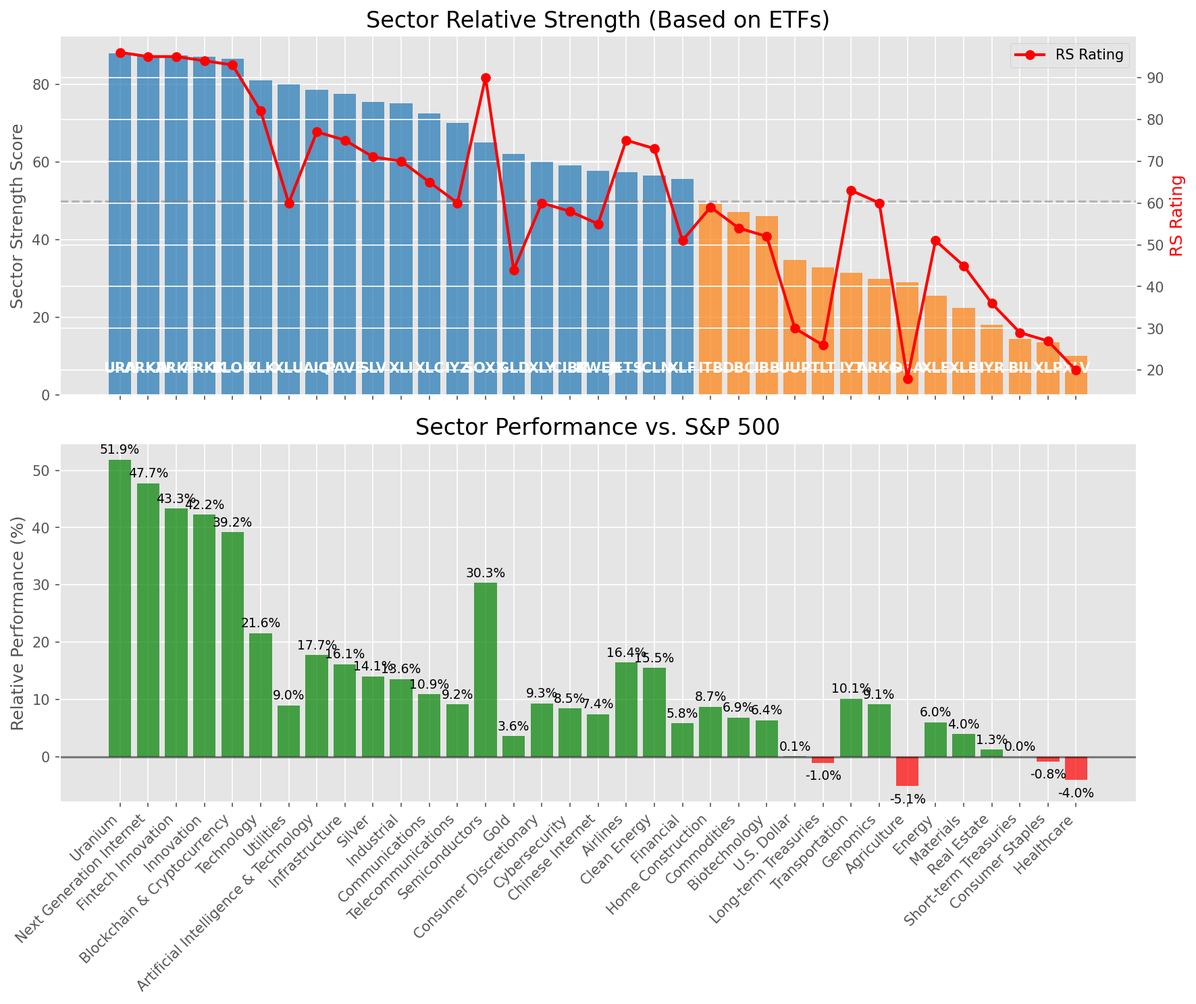
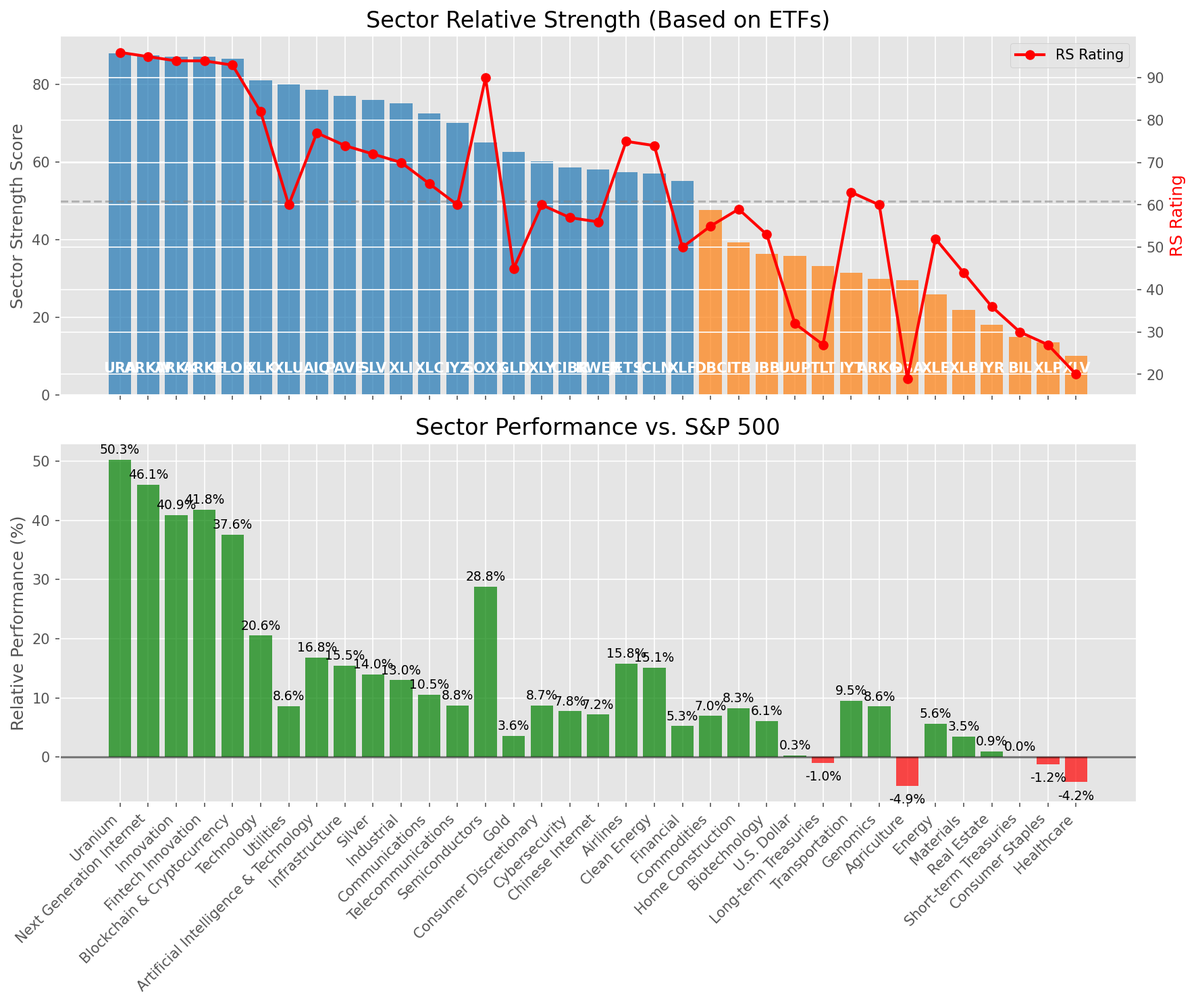
Add market report for 2025-08-01

diff --git a/oneil_relative_strength_report_2025-08-01.md b/oneil_relative_strength_report_2025-08-01.md
@@ -9,11 +9,11 @@
 | Metric | Value |
 |--------|-------|
 | **Market Valuation** | **Overvalued** |
-| **Current Ratio** | 10.13 |
+| **Current Ratio** | 10.07 |
 | **Historical Mean** | 9.55 |
 | **Standard Deviation** | 0.59 |
 | **Z-Score (StdDev from Mean)** | 1.20 |
-| **Total Market Cap** | $307.23 trillion |
+| **Total Market Cap** | $305.37 trillion |
 | **GDP** | $30.33 trillion |
 
 ## **Market Insights**
@@ -49,41 +49,41 @@ Based on William O'Neil's Relative Strength Methodology
 
 | ETF | Strength | RS Rating | Performance | Above Key MAs | Trend | Sector |
 |-----|----------|-----------|-------------|--------------|-------|--------|
-| [URA](https://www.tradingview.com/chart/?symbol=URA) | 88.1 | 96.0 | 51.86% | 10d ✗, 50d ✓, 200d ✓ | ↗ | Uranium |
-| [ARKW](https://www.tradingview.com/chart/?symbol=ARKW) | 87.6 | 95.0 | 47.73% | 10d ✗, 50d ✓, 200d ✓ | ↗ | Next Generation Internet |
-| [ARKF](https://www.tradingview.com/chart/?symbol=ARKF) | 87.6 | 95.0 | 43.35% | 10d ✗, 50d ✓, 200d ✓ | ↗ | Fintech Innovation |
-| [ARKK](https://www.tradingview.com/chart/?symbol=ARKK) | 87.1 | 94.0 | 42.25% | 10d ✗, 50d ✓, 200d ✓ | ↗ | Innovation |
-| [BLOK](https://www.tradingview.com/chart/?symbol=BLOK) | 86.6 | 93.0 | 39.23% | 10d ✗, 50d ✓, 200d ✓ | ↗ | Blockchain & Cryptocurrency |
-| [XLK](https://www.tradingview.com/chart/?symbol=XLK) | 81.1 | 82.0 | 21.57% | 10d ✗, 50d ✓, 200d ✓ | ↗ | Technology |
-| [XLU](https://www.tradingview.com/chart/?symbol=XLU) | 80.0 | 60.0 | 8.99% | 10d ✓, 50d ✓, 200d ✓ | ↗ | Utilities |
-| [AIQ](https://www.tradingview.com/chart/?symbol=AIQ) | 78.6 | 77.0 | 17.73% | 10d ✗, 50d ✓, 200d ✓ | ↗ | Artificial Intelligence & Technology |
-| [PAVE](https://www.tradingview.com/chart/?symbol=PAVE) | 77.6 | 75.0 | 16.15% | 10d ✗, 50d ✓, 200d ✓ | ↗ | Infrastructure |
-| [SLV](https://www.tradingview.com/chart/?symbol=SLV) | 75.6 | 71.0 | 14.05% | 10d ✗, 50d ✓, 200d ✓ | ↗ | Silver |
-| [XLI](https://www.tradingview.com/chart/?symbol=XLI) | 75.1 | 70.0 | 13.56% | 10d ✗, 50d ✓, 200d ✓ | ↗ | Industrial |
-| [XLC](https://www.tradingview.com/chart/?symbol=XLC) | 72.6 | 65.0 | 10.89% | 10d ✗, 50d ✓, 200d ✓ | ↗ | Communications |
-| [IYZ](https://www.tradingview.com/chart/?symbol=IYZ) | 70.1 | 60.0 | 9.18% | 10d ✗, 50d ✓, 200d ✓ | ↗ | Telecommunications |
-| [SOXX](https://www.tradingview.com/chart/?symbol=SOXX) | 65.1 | 90.0 | 30.33% | 10d ✗, 50d ✓, 200d ✓ | ↘ | Semiconductors |
-| [GLD](https://www.tradingview.com/chart/?symbol=GLD) | 62.1 | 44.0 | 3.59% | 10d ✗, 50d ✓, 200d ✓ | ↗ | Gold |
-| [XLY](https://www.tradingview.com/chart/?symbol=XLY) | 60.2 | 60.0 | 9.31% | 10d ✗, 50d ✗, 200d ✓ | ↗ | Consumer Discretionary |
-| [CIBR](https://www.tradingview.com/chart/?symbol=CIBR) | 59.2 | 58.0 | 8.45% | 10d ✗, 50d ✗, 200d ✓ | ↗ | Cybersecurity |
-| [KWEB](https://www.tradingview.com/chart/?symbol=KWEB) | 57.7 | 55.0 | 7.44% | 10d ✗, 50d ✗, 200d ✓ | ↗ | Chinese Internet |
-| [JETS](https://www.tradingview.com/chart/?symbol=JETS) | 57.5 | 75.0 | 16.45% | 10d ✗, 50d ✗, 200d ✗ | ↗ | Airlines |
-| [ICLN](https://www.tradingview.com/chart/?symbol=ICLN) | 56.6 | 73.0 | 15.55% | 10d ✗, 50d ✓, 200d ✓ | ↘ | Clean Energy |
-| [XLF](https://www.tradingview.com/chart/?symbol=XLF) | 55.7 | 51.0 | 5.83% | 10d ✗, 50d ✗, 200d ✓ | ↗ | Financial |
-| [ITB](https://www.tradingview.com/chart/?symbol=ITB) | 49.3 | 59.0 | 8.75% | 10d ✓, 50d ✓, 200d ✗ | ↘ | Home Construction |
-| [DBC](https://www.tradingview.com/chart/?symbol=DBC) | 47.1 | 54.0 | 6.87% | 10d ✗, 50d ✓, 200d ✓ | ↘ | Commodities |
-| [IBB](https://www.tradingview.com/chart/?symbol=IBB) | 46.1 | 52.0 | 6.38% | 10d ✗, 50d ✓, 200d ✓ | ↘ | Biotechnology |
-| [UUP](https://www.tradingview.com/chart/?symbol=UUP) | 34.8 | 30.0 | 0.07% | 10d ✓, 50d ✓, 200d ✗ | ↘ | U.S. Dollar |
-| [TLT](https://www.tradingview.com/chart/?symbol=TLT) | 32.8 | 26.0 | -1.03% | 10d ✓, 50d ✓, 200d ✗ | ↘ | Long-term Treasuries |
-| [IYT](https://www.tradingview.com/chart/?symbol=IYT) | 31.5 | 63.0 | 10.14% | 10d ✗, 50d ✗, 200d ✗ | ↘ | Transportation |
-| [ARKG](https://www.tradingview.com/chart/?symbol=ARKG) | 30.0 | 60.0 | 9.15% | 10d ✗, 50d ✗, 200d ✗ | ↘ | Genomics |
-| [DBA](https://www.tradingview.com/chart/?symbol=DBA) | 29.0 | 18.0 | -5.09% | 10d ✗, 50d ✗, 200d ✗ | ↗ | Agriculture |
-| [XLE](https://www.tradingview.com/chart/?symbol=XLE) | 25.5 | 51.0 | 6.04% | 10d ✗, 50d ✗, 200d ✗ | ↘ | Energy |
-| [XLB](https://www.tradingview.com/chart/?symbol=XLB) | 22.5 | 45.0 | 3.95% | 10d ✗, 50d ✗, 200d ✗ | ↘ | Materials |
-| [IYR](https://www.tradingview.com/chart/?symbol=IYR) | 18.0 | 36.0 | 1.28% | 10d ✗, 50d ✗, 200d ✗ | ↘ | Real Estate |
-| [BIL](https://www.tradingview.com/chart/?symbol=BIL) | 14.5 | 29.0 | 0.03% | 10d ✗, 50d ✗, 200d ✗ | ↘ | Short-term Treasuries |
-| [XLP](https://www.tradingview.com/chart/?symbol=XLP) | 13.5 | 27.0 | -0.83% | 10d ✗, 50d ✗, 200d ✗ | ↘ | Consumer Staples |
-| [XLV](https://www.tradingview.com/chart/?symbol=XLV) | 10.0 | 20.0 | -4.04% | 10d ✗, 50d ✗, 200d ✗ | ↘ | Healthcare |
+| [URA](https://www.tradingview.com/chart/?symbol=URA) | 88.1 | 96.0 | 50.26% | 10d ✗, 50d ✓, 200d ✓ | ↗ | Uranium |
+| [ARKW](https://www.tradingview.com/chart/?symbol=ARKW) | 87.6 | 95.0 | 46.07% | 10d ✗, 50d ✓, 200d ✓ | ↗ | Next Generation Internet |
+| [ARKK](https://www.tradingview.com/chart/?symbol=ARKK) | 87.1 | 94.0 | 40.92% | 10d ✗, 50d ✓, 200d ✓ | ↗ | Innovation |
+| [ARKF](https://www.tradingview.com/chart/?symbol=ARKF) | 87.1 | 94.0 | 41.83% | 10d ✗, 50d ✓, 200d ✓ | ↗ | Fintech Innovation |
+| [BLOK](https://www.tradingview.com/chart/?symbol=BLOK) | 86.6 | 93.0 | 37.59% | 10d ✗, 50d ✓, 200d ✓ | ↗ | Blockchain & Cryptocurrency |
+| [XLK](https://www.tradingview.com/chart/?symbol=XLK) | 81.1 | 82.0 | 20.55% | 10d ✗, 50d ✓, 200d ✓ | ↗ | Technology |
+| [XLU](https://www.tradingview.com/chart/?symbol=XLU) | 80.0 | 60.0 | 8.63% | 10d ✓, 50d ✓, 200d ✓ | ↗ | Utilities |
+| [AIQ](https://www.tradingview.com/chart/?symbol=AIQ) | 78.6 | 77.0 | 16.84% | 10d ✗, 50d ✓, 200d ✓ | ↗ | Artificial Intelligence & Technology |
+| [PAVE](https://www.tradingview.com/chart/?symbol=PAVE) | 77.1 | 74.0 | 15.50% | 10d ✗, 50d ✓, 200d ✓ | ↗ | Infrastructure |
+| [SLV](https://www.tradingview.com/chart/?symbol=SLV) | 76.1 | 72.0 | 13.96% | 10d ✗, 50d ✓, 200d ✓ | ↗ | Silver |
+| [XLI](https://www.tradingview.com/chart/?symbol=XLI) | 75.1 | 70.0 | 13.01% | 10d ✗, 50d ✓, 200d ✓ | ↗ | Industrial |
+| [XLC](https://www.tradingview.com/chart/?symbol=XLC) | 72.6 | 65.0 | 10.53% | 10d ✗, 50d ✓, 200d ✓ | ↗ | Communications |
+| [IYZ](https://www.tradingview.com/chart/?symbol=IYZ) | 70.1 | 60.0 | 8.76% | 10d ✗, 50d ✓, 200d ✓ | ↗ | Telecommunications |
+| [SOXX](https://www.tradingview.com/chart/?symbol=SOXX) | 65.1 | 90.0 | 28.81% | 10d ✗, 50d ✓, 200d ✓ | ↘ | Semiconductors |
+| [GLD](https://www.tradingview.com/chart/?symbol=GLD) | 62.6 | 45.0 | 3.62% | 10d ✗, 50d ✓, 200d ✓ | ↗ | Gold |
+| [XLY](https://www.tradingview.com/chart/?symbol=XLY) | 60.2 | 60.0 | 8.70% | 10d ✗, 50d ✗, 200d ✓ | ↗ | Consumer Discretionary |
+| [CIBR](https://www.tradingview.com/chart/?symbol=CIBR) | 58.7 | 57.0 | 7.76% | 10d ✗, 50d ✗, 200d ✓ | ↗ | Cybersecurity |
+| [KWEB](https://www.tradingview.com/chart/?symbol=KWEB) | 58.2 | 56.0 | 7.19% | 10d ✗, 50d ✗, 200d ✓ | ↗ | Chinese Internet |
+| [JETS](https://www.tradingview.com/chart/?symbol=JETS) | 57.5 | 75.0 | 15.82% | 10d ✗, 50d ✗, 200d ✗ | ↗ | Airlines |
+| [ICLN](https://www.tradingview.com/chart/?symbol=ICLN) | 57.1 | 74.0 | 15.12% | 10d ✗, 50d ✓, 200d ✓ | ↘ | Clean Energy |
+| [XLF](https://www.tradingview.com/chart/?symbol=XLF) | 55.2 | 50.0 | 5.26% | 10d ✗, 50d ✗, 200d ✓ | ↗ | Financial |
+| [DBC](https://www.tradingview.com/chart/?symbol=DBC) | 47.6 | 55.0 | 6.97% | 10d ✗, 50d ✓, 200d ✓ | ↘ | Commodities |
+| [ITB](https://www.tradingview.com/chart/?symbol=ITB) | 39.4 | 59.0 | 8.26% | 10d ✗, 50d ✓, 200d ✗ | ↘ | Home Construction |
+| [IBB](https://www.tradingview.com/chart/?symbol=IBB) | 36.4 | 53.0 | 6.12% | 10d ✗, 50d ✓, 200d ✗ | ↘ | Biotechnology |
+| [UUP](https://www.tradingview.com/chart/?symbol=UUP) | 35.8 | 32.0 | 0.27% | 10d ✓, 50d ✓, 200d ✗ | ↘ | U.S. Dollar |
+| [TLT](https://www.tradingview.com/chart/?symbol=TLT) | 33.3 | 27.0 | -0.95% | 10d ✓, 50d ✓, 200d ✗ | ↘ | Long-term Treasuries |
+| [IYT](https://www.tradingview.com/chart/?symbol=IYT) | 31.5 | 63.0 | 9.51% | 10d ✗, 50d ✗, 200d ✗ | ↘ | Transportation |
+| [ARKG](https://www.tradingview.com/chart/?symbol=ARKG) | 30.0 | 60.0 | 8.55% | 10d ✗, 50d ✗, 200d ✗ | ↘ | Genomics |
+| [DBA](https://www.tradingview.com/chart/?symbol=DBA) | 29.5 | 19.0 | -4.86% | 10d ✗, 50d ✗, 200d ✗ | ↗ | Agriculture |
+| [XLE](https://www.tradingview.com/chart/?symbol=XLE) | 26.0 | 52.0 | 5.64% | 10d ✗, 50d ✗, 200d ✗ | ↘ | Energy |
+| [XLB](https://www.tradingview.com/chart/?symbol=XLB) | 22.0 | 44.0 | 3.52% | 10d ✗, 50d ✗, 200d ✗ | ↘ | Materials |
+| [IYR](https://www.tradingview.com/chart/?symbol=IYR) | 18.0 | 36.0 | 0.95% | 10d ✗, 50d ✗, 200d ✗ | ↘ | Real Estate |
+| [BIL](https://www.tradingview.com/chart/?symbol=BIL) | 15.0 | 30.0 | 0.03% | 10d ✗, 50d ✗, 200d ✗ | ↘ | Short-term Treasuries |
+| [XLP](https://www.tradingview.com/chart/?symbol=XLP) | 13.5 | 27.0 | -1.18% | 10d ✗, 50d ✗, 200d ✗ | ↘ | Consumer Staples |
+| [XLV](https://www.tradingview.com/chart/?symbol=XLV) | 10.0 | 20.0 | -4.22% | 10d ✗, 50d ✗, 200d ✗ | ↘ | Healthcare |
 
 ### **Sector ETF Performance Interpretation**
 
@@ -98,9 +98,9 @@ This table shows the relative strength metrics for different market sectors base
 
 ### **Current Sector Leadership**
 
-The current market leadership is coming from the following sectors: **Uranium, Next Generation Internet, Fintech Innovation**.
+The current market leadership is coming from the following sectors: **Uranium, Next Generation Internet, Innovation**.
 
-The **Uranium** sector (represented by **URA**) is showing particularly strong relative strength with an RS rating of 96.0 and performance of 51.86% vs. the S&P 500. This sector is trading above its 50-day, 200-day moving average(s). Investors should consider focusing on high RS stocks within these leading sectors for potential outperformance.
+The **Uranium** sector (represented by **URA**) is showing particularly strong relative strength with an RS rating of 96.0 and performance of 50.26% vs. the S&P 500. This sector is trading above its 50-day, 200-day moving average(s). Investors should consider focusing on high RS stocks within these leading sectors for potential outperformance.
 
 ---
 
@@ -110,149 +110,147 @@ The following 44 stocks show exceptional relative strength:
 
 | RS Rating | Buy Score | Current Price | Chart | Name | Ticker |
 |-----------|-----------|---------------|-------|------|--------|
-| 100 | 100 | $197.90 | [Chart](https://www.tradingview.com/chart/?symbol=CLS) | Celestica, Inc. | CLS |
-| 100 | 100 | $233.67 | [Chart](https://www.tradingview.com/chart/?symbol=DAVE) | Dave Inc. Class A Common Stock | DAVE |
-| 100 | 100 | $149.14 | [Chart](https://www.tradingview.com/chart/?symbol=SEZL) | Sezzle Inc. Common Stock | SEZL |
-| 100 | 100 | $63.95 | [Chart](https://www.tradingview.com/chart/?symbol=MP) | MP Materials Corp. | MP |
-| 100 | 100 | $29.79 | [Chart](https://www.tradingview.com/chart/?symbol=CPS) | Cooper-Standard Automotive Inc. | CPS |
-| 99 | 100 | $63.03 | [Chart](https://www.tradingview.com/chart/?symbol=HIMS) | Hims & Hers Health, Inc. | HIMS |
-| 99 | 100 | $661.38 | [Chart](https://www.tradingview.com/chart/?symbol=GEV) | GE Vernova Inc. | GEV |
-| 99 | 100 | $127.32 | [Chart](https://www.tradingview.com/chart/?symbol=RBLX) | Roblox Corporation | RBLX |
-| 98 | 100 | $382.89 | [Chart](https://www.tradingview.com/chart/?symbol=TLN) | Talen Energy Corporation Common Stock | TLN |
-| 98 | 100 | $208.81 | [Chart](https://www.tradingview.com/chart/?symbol=NET) | Cloudflare, Inc. Class A common stock, par value $0.001 per share | NET |
-| 96 | 100 | $65.65 | [Chart](https://www.tradingview.com/chart/?symbol=IBKR) | Interactive Brokers Group, Inc. Class A Common Stock | IBKR |
-| 96 | 100 | $179.27 | [Chart](https://www.tradingview.com/chart/?symbol=COOP) | Mr. Cooper Group Inc. Common Stock | COOP |
-| 96 | 100 | $375.47 | [Chart](https://www.tradingview.com/chart/?symbol=CVNA) | Carvana Co. | CVNA |
-| 95 | 100 | $48.28 | [Chart](https://www.tradingview.com/chart/?symbol=REVG) | REV Group, Inc. | REVG |
-| 95 | 100 | $112.97 | [Chart](https://www.tradingview.com/chart/?symbol=SANM) | Sanmina  Corp | SANM |
-| 95 | 100 | $232.07 | [Chart](https://www.tradingview.com/chart/?symbol=AGX) | Argan, Inc | AGX |
+| 100 | 100 | $194.83 | [Chart](https://www.tradingview.com/chart/?symbol=CLS) | Celestica, Inc. | CLS |
+| 100 | 100 | $63.41 | [Chart](https://www.tradingview.com/chart/?symbol=MP) | MP Materials Corp. | MP |
+| 100 | 100 | $230.51 | [Chart](https://www.tradingview.com/chart/?symbol=DAVE) | Dave Inc. Class A Common Stock | DAVE |
+| 100 | 100 | $145.52 | [Chart](https://www.tradingview.com/chart/?symbol=SEZL) | Sezzle Inc. Common Stock | SEZL |
+| 99 | 100 | $27.49 | [Chart](https://www.tradingview.com/chart/?symbol=CPS) | Cooper-Standard Automotive Inc. | CPS |
+| 99 | 100 | $654.05 | [Chart](https://www.tradingview.com/chart/?symbol=GEV) | GE Vernova Inc. | GEV |
+| 99 | 100 | $62.29 | [Chart](https://www.tradingview.com/chart/?symbol=HIMS) | Hims & Hers Health, Inc. | HIMS |
+| 99 | 100 | $380.50 | [Chart](https://www.tradingview.com/chart/?symbol=TLN) | Talen Energy Corporation Common Stock | TLN |
+| 99 | 100 | $126.26 | [Chart](https://www.tradingview.com/chart/?symbol=RBLX) | Roblox Corporation | RBLX |
+| 98 | 100 | $204.60 | [Chart](https://www.tradingview.com/chart/?symbol=NET) | Cloudflare, Inc. Class A common stock, par value $0.001 per share | NET |
+| 97 | 100 | $166.17 | [Chart](https://www.tradingview.com/chart/?symbol=IRTC) | iRhythm Technologies, Inc | IRTC |
+| 96 | 100 | $64.61 | [Chart](https://www.tradingview.com/chart/?symbol=IBKR) | Interactive Brokers Group, Inc. Class A Common Stock | IBKR |
+| 96 | 100 | $175.80 | [Chart](https://www.tradingview.com/chart/?symbol=COOP) | Mr. Cooper Group Inc. Common Stock | COOP |
+| 96 | 100 | $369.57 | [Chart](https://www.tradingview.com/chart/?symbol=CVNA) | Carvana Co. | CVNA |
+| 95 | 100 | $166.87 | [Chart](https://www.tradingview.com/chart/?symbol=NRG) | NRG Energy, Inc. | NRG |
+| 95 | 100 | $137.00 | [Chart](https://www.tradingview.com/chart/?symbol=LMB) | Limbach Holdings, Inc Common Stock | LMB |
 | 95 | 100 | $105.14 | [Chart](https://www.tradingview.com/chart/?symbol=VRNA) | Verona Pharma plc | VRNA |
-| 95 | 100 | $168.00 | [Chart](https://www.tradingview.com/chart/?symbol=NRG) | NRG Energy, Inc. | NRG |
-| 94 | 100 | $137.00 | [Chart](https://www.tradingview.com/chart/?symbol=LMB) | Limbach Holdings, Inc Common Stock | LMB |
-| 93 | 100 | $88.13 | [Chart](https://www.tradingview.com/chart/?symbol=RYTM) | Rhythm Pharmaceuticals, Inc. Common Stock | RYTM |
-| 93 | 100 | $490.72 | [Chart](https://www.tradingview.com/chart/?symbol=CW) | Curtiss-Wright Corp. | CW |
-| 93 | 100 | $382.85 | [Chart](https://www.tradingview.com/chart/?symbol=APP) | Applovin Corporation Class A Common Stock | APP |
-| 93 | 100 | $43.12 | [Chart](https://www.tradingview.com/chart/?symbol=LTM) | LATAM Airlines Group S.A. American Depositary Shares (each representing two thousand (2,000) shares of Common Stock) | LTM |
-| 92 | 100 | $258.76 | [Chart](https://www.tradingview.com/chart/?symbol=WWD) | Woodward, Inc. | WWD |
-| 92 | 100 | $18.81 | [Chart](https://www.tradingview.com/chart/?symbol=LQDA) | Liquidia Corporation Common Stock | LQDA |
-| 92 | 100 | $157.45 | [Chart](https://www.tradingview.com/chart/?symbol=PLTR) | Palantir Technologies Inc. Class A Common Stock | PLTR |
-| 91 | 100 | $35.43 | [Chart](https://www.tradingview.com/chart/?symbol=APG) | APi Group Corporation | APG |
-| 91 | 100 | $105.07 | [Chart](https://www.tradingview.com/chart/?symbol=APH) | Amphenol Corporation | APH |
-| 91 | 100 | $270.00 | [Chart](https://www.tradingview.com/chart/?symbol=GE) | GE Aerospace | GE |
-| 91 | 100 | $82.45 | [Chart](https://www.tradingview.com/chart/?symbol=TPB) | Turning Point Brands, Inc. | TPB |
-| 91 | 100 | $90.73 | [Chart](https://www.tradingview.com/chart/?symbol=EBAY) | eBay Inc | EBAY |
-| 88 | 100 | $146.89 | [Chart](https://www.tradingview.com/chart/?symbol=VSEC) | VSE Corp | VSEC |
-| 87 | 100 | $29.62 | [Chart](https://www.tradingview.com/chart/?symbol=SRAD) | Sportradar Group AG Class A Ordinary Shares | SRAD |
-| 87 | 99 | $54.82 | [Chart](https://www.tradingview.com/chart/?symbol=BTI) | British American Tobacco p.l.c. American Depositary Shares, American Depositary Shares, each representing one Ordinary Share | BTI |
-| 86 | 99 | $57.48 | [Chart](https://www.tradingview.com/chart/?symbol=ERJ) | Embraer S.A. | ERJ |
-| 88 | 98 | $187.50 | [Chart](https://www.tradingview.com/chart/?symbol=AWI) | Armstrong World Industries, Inc. | AWI |
-| 85 | 97 | $47.88 | [Chart](https://www.tradingview.com/chart/?symbol=BBIO) | BridgeBio Pharma, Inc. Common Stock | BBIO |
-| 84 | 97 | $32.59 | [Chart](https://www.tradingview.com/chart/?symbol=DB) | Deutsche Bank Aktiengesellschaft | DB |
-| 86 | 96 | $95.29 | [Chart](https://www.tradingview.com/chart/?symbol=NDAQ) | Nasdaq, Inc. Common Stock | NDAQ |
-| 85 | 96 | $72.45 | [Chart](https://www.tradingview.com/chart/?symbol=ULS) | UL Solutions Inc. | ULS |
-| 83 | 96 | $39.13 | [Chart](https://www.tradingview.com/chart/?symbol=AHR) | American Healthcare REIT, Inc. | AHR |
-| 85 | 95 | $257.76 | [Chart](https://www.tradingview.com/chart/?symbol=WTS) | Watts Water Technologies, Inc. Class A | WTS |
-| 82 | 92 | $112.48 | [Chart](https://www.tradingview.com/chart/?symbol=SXT) | Sensient Technology Corporation | SXT |
-| 82 | 92 | $49.41 | [Chart](https://www.tradingview.com/chart/?symbol=FHI) | Federated Hermes, Inc. | FHI |
+| 95 | 100 | $227.92 | [Chart](https://www.tradingview.com/chart/?symbol=AGX) | Argan, Inc | AGX |
+| 94 | 100 | $111.85 | [Chart](https://www.tradingview.com/chart/?symbol=SANM) | Sanmina  Corp | SANM |
+| 94 | 100 | $491.10 | [Chart](https://www.tradingview.com/chart/?symbol=CW) | Curtiss-Wright Corp. | CW |
+| 93 | 100 | $379.52 | [Chart](https://www.tradingview.com/chart/?symbol=APP) | Applovin Corporation Class A Common Stock | APP |
+| 93 | 100 | $87.43 | [Chart](https://www.tradingview.com/chart/?symbol=RYTM) | Rhythm Pharmaceuticals, Inc. Common Stock | RYTM |
+| 93 | 100 | $42.99 | [Chart](https://www.tradingview.com/chart/?symbol=LTM) | LATAM Airlines Group S.A. American Depositary Shares (each representing two thousand (2,000) shares of Common Stock) | LTM |
+| 92 | 100 | $18.80 | [Chart](https://www.tradingview.com/chart/?symbol=LQDA) | Liquidia Corporation Common Stock | LQDA |
+| 92 | 100 | $156.19 | [Chart](https://www.tradingview.com/chart/?symbol=PLTR) | Palantir Technologies Inc. Class A Common Stock | PLTR |
+| 92 | 100 | $91.47 | [Chart](https://www.tradingview.com/chart/?symbol=EBAY) | eBay Inc | EBAY |
+| 91 | 100 | $268.64 | [Chart](https://www.tradingview.com/chart/?symbol=GE) | GE Aerospace | GE |
+| 91 | 100 | $81.52 | [Chart](https://www.tradingview.com/chart/?symbol=TPB) | Turning Point Brands, Inc. | TPB |
+| 91 | 100 | $104.58 | [Chart](https://www.tradingview.com/chart/?symbol=APH) | Amphenol Corporation | APH |
+| 90 | 100 | $35.07 | [Chart](https://www.tradingview.com/chart/?symbol=APG) | APi Group Corporation | APG |
+| 87 | 100 | $29.51 | [Chart](https://www.tradingview.com/chart/?symbol=SRAD) | Sportradar Group AG Class A Ordinary Shares | SRAD |
+| 89 | 99 | $187.50 | [Chart](https://www.tradingview.com/chart/?symbol=AWI) | Armstrong World Industries, Inc. | AWI |
+| 87 | 99 | $54.57 | [Chart](https://www.tradingview.com/chart/?symbol=BTI) | British American Tobacco p.l.c. American Depositary Shares, American Depositary Shares, each representing one Ordinary Share | BTI |
+| 87 | 99 | $144.28 | [Chart](https://www.tradingview.com/chart/?symbol=VSEC) | VSE Corp | VSEC |
+| 86 | 99 | $56.97 | [Chart](https://www.tradingview.com/chart/?symbol=ERJ) | Embraer S.A. | ERJ |
+| 85 | 97 | $47.56 | [Chart](https://www.tradingview.com/chart/?symbol=BBIO) | BridgeBio Pharma, Inc. Common Stock | BBIO |
+| 84 | 97 | $32.35 | [Chart](https://www.tradingview.com/chart/?symbol=DB) | Deutsche Bank Aktiengesellschaft | DB |
+| 84 | 97 | $39.02 | [Chart](https://www.tradingview.com/chart/?symbol=AHR) | American Healthcare REIT, Inc. | AHR |
+| 86 | 96 | $94.75 | [Chart](https://www.tradingview.com/chart/?symbol=NDAQ) | Nasdaq, Inc. Common Stock | NDAQ |
+| 85 | 96 | $72.19 | [Chart](https://www.tradingview.com/chart/?symbol=ULS) | UL Solutions Inc. | ULS |
+| 85 | 95 | $256.64 | [Chart](https://www.tradingview.com/chart/?symbol=WTS) | Watts Water Technologies, Inc. Class A | WTS |
+| 81 | 91 | $48.90 | [Chart](https://www.tradingview.com/chart/?symbol=FHI) | Federated Hermes, Inc. | FHI |
+| 81 | 91 | $111.47 | [Chart](https://www.tradingview.com/chart/?symbol=SXT) | Sensient Technology Corporation | SXT |
+| 80 | 91 | $235.17 | [Chart](https://www.tradingview.com/chart/?symbol=BAP) | Credicorp LTD | BAP |
 
 ---
 
 
 ## **Sell Recommendations**
 
-The following 89 stocks show deteriorating relative strength:
+The following 87 stocks show deteriorating relative strength:
 
 | RS Rating | Sell Score | Current Price | Chart | Name | Ticker |
 |-----------|------------|---------------|-------|------|--------|
-| 1 | 100 | $12.22 | [Chart](https://www.tradingview.com/chart/?symbol=NVDS) | Investment Managers Series Trust II Tradr 1.5X Short NVDA Daily ETF | NVDS |
-| 1 | 100 | $70.00 | [Chart](https://www.tradingview.com/chart/?symbol=LNTH) | Lantheus Holdings, Inc | LNTH |
-| 2 | 100 | $13.88 | [Chart](https://www.tradingview.com/chart/?symbol=CLBT) | Cellebrite DI Ltd. Class A Ordinary Shares | CLBT |
-| 2 | 100 | $35.18 | [Chart](https://www.tradingview.com/chart/?symbol=IBTA) | Ibotta, Inc. | IBTA |
-| 3 | 100 | $24.04 | [Chart](https://www.tradingview.com/chart/?symbol=DUST) | Direxion Daily Gold Miners Index Bear 2X Shares | DUST |
-| 3 | 100 | $24.63 | [Chart](https://www.tradingview.com/chart/?symbol=ZSL) | ProShares UltraShort Silver | ZSL |
-| 3 | 100 | $21.19 | [Chart](https://www.tradingview.com/chart/?symbol=HELE) | Helen Of Troy Ltd | HELE |
-| 3 | 100 | $15.32 | [Chart](https://www.tradingview.com/chart/?symbol=TVTX) | Travere Therapeutics, Inc. Common Stock | TVTX |
-| 4 | 100 | $14.98 | [Chart](https://www.tradingview.com/chart/?symbol=CSTL) | Castle Biosciences, Inc. Common Stock | CSTL |
-| 5 | 100 | $42.90 | [Chart](https://www.tradingview.com/chart/?symbol=SDOW) | ProShares UltraPro Short Dow 30 | SDOW |
-| 5 | 100 | $10.29 | [Chart](https://www.tradingview.com/chart/?symbol=ARDT) | Ardent Health, Inc. | ARDT |
-| 5 | 100 | $126.73 | [Chart](https://www.tradingview.com/chart/?symbol=INSP) | Inspire Medical Systems, Inc. | INSP |
-| 5 | 100 | $12.17 | [Chart](https://www.tradingview.com/chart/?symbol=CDNA) | CareDx, Inc. | CDNA |
+| 1 | 100 | $70.16 | [Chart](https://www.tradingview.com/chart/?symbol=LNTH) | Lantheus Holdings, Inc | LNTH |
+| 1 | 100 | $12.44 | [Chart](https://www.tradingview.com/chart/?symbol=NVDS) | Investment Managers Series Trust II Tradr 1.5X Short NVDA Daily ETF | NVDS |
+| 2 | 100 | $13.77 | [Chart](https://www.tradingview.com/chart/?symbol=CLBT) | Cellebrite DI Ltd. Class A Ordinary Shares | CLBT |
+| 2 | 100 | $35.16 | [Chart](https://www.tradingview.com/chart/?symbol=IBTA) | Ibotta, Inc. | IBTA |
+| 3 | 100 | $24.22 | [Chart](https://www.tradingview.com/chart/?symbol=DUST) | Direxion Daily Gold Miners Index Bear 2X Shares | DUST |
+| 3 | 100 | $14.82 | [Chart](https://www.tradingview.com/chart/?symbol=CSTL) | Castle Biosciences, Inc. Common Stock | CSTL |
+| 3 | 100 | $24.65 | [Chart](https://www.tradingview.com/chart/?symbol=ZSL) | ProShares UltraShort Silver | ZSL |
+| 3 | 100 | $21.03 | [Chart](https://www.tradingview.com/chart/?symbol=HELE) | Helen Of Troy Ltd | HELE |
+| 3 | 100 | $15.30 | [Chart](https://www.tradingview.com/chart/?symbol=TVTX) | Travere Therapeutics, Inc. Common Stock | TVTX |
+| 5 | 100 | $12.22 | [Chart](https://www.tradingview.com/chart/?symbol=CDNA) | CareDx, Inc. | CDNA |
+| 5 | 100 | $10.20 | [Chart](https://www.tradingview.com/chart/?symbol=ARDT) | Ardent Health, Inc. | ARDT |
 | 6 | 100 | $20.72 | [Chart](https://www.tradingview.com/chart/?symbol=KIDS) | OrthoPediatrics Corp. Common Stock | KIDS |
-| 6 | 100 | $10.37 | [Chart](https://www.tradingview.com/chart/?symbol=OEC) | Orion S.A. | OEC |
-| 7 | 100 | $20.95 | [Chart](https://www.tradingview.com/chart/?symbol=AMPH) | Amphastar Pharmaceuticals, Inc. | AMPH |
-| 8 | 100 | $22.35 | [Chart](https://www.tradingview.com/chart/?symbol=ERY) | Direxion Daily Energy Bear 2X Shares | ERY |
-| 8 | 100 | $12.52 | [Chart](https://www.tradingview.com/chart/?symbol=BSM) | Black Stone Minerals, L.P. | BSM |
-| 8 | 100 | $17.62 | [Chart](https://www.tradingview.com/chart/?symbol=AMN) | AMN Healthcare Services | AMN |
-| 9 | 100 | $21.28 | [Chart](https://www.tradingview.com/chart/?symbol=AMRK) | A-Mark Precious Metals, Inc. | AMRK |
-| 9 | 100 | $54.25 | [Chart](https://www.tradingview.com/chart/?symbol=HRB) | H&R Block, Inc. | HRB |
-| 13 | 100 | $16.29 | [Chart](https://www.tradingview.com/chart/?symbol=UMH) | UMH Properties, Inc. | UMH |
-| 14 | 100 | $14.96 | [Chart](https://www.tradingview.com/chart/?symbol=FIHL) | Fidelis Insurance Holdings Limited | FIHL |
+| 6 | 100 | $43.52 | [Chart](https://www.tradingview.com/chart/?symbol=SDOW) | ProShares UltraPro Short Dow 30 | SDOW |
+| 7 | 100 | $10.37 | [Chart](https://www.tradingview.com/chart/?symbol=OEC) | Orion S.A. | OEC |
+| 7 | 100 | $20.63 | [Chart](https://www.tradingview.com/chart/?symbol=AMRK) | A-Mark Precious Metals, Inc. | AMRK |
+| 8 | 100 | $12.47 | [Chart](https://www.tradingview.com/chart/?symbol=BSM) | Black Stone Minerals, L.P. | BSM |
+| 8 | 100 | $17.63 | [Chart](https://www.tradingview.com/chart/?symbol=AMN) | AMN Healthcare Services | AMN |
+| 9 | 100 | $54.30 | [Chart](https://www.tradingview.com/chart/?symbol=HRB) | H&R Block, Inc. | HRB |
+| 10 | 100 | $21.02 | [Chart](https://www.tradingview.com/chart/?symbol=AMPH) | Amphastar Pharmaceuticals, Inc. | AMPH |
+| 13 | 100 | $16.26 | [Chart](https://www.tradingview.com/chart/?symbol=UMH) | UMH Properties, Inc. | UMH |
+| 15 | 100 | $14.93 | [Chart](https://www.tradingview.com/chart/?symbol=FIHL) | Fidelis Insurance Holdings Limited | FIHL |
 | 6 | 99 | $15.02 | [Chart](https://www.tradingview.com/chart/?symbol=PLSE) | Pulse Biosciences, Inc Common Stock (DE) | PLSE |
-| 8 | 99 | $10.18 | [Chart](https://www.tradingview.com/chart/?symbol=IMXI) | International Money Express, Inc. | IMXI |
-| 10 | 99 | $32.13 | [Chart](https://www.tradingview.com/chart/?symbol=GLBE) | Global-E Online Ltd. Ordinary Shares | GLBE |
-| 11 | 99 | $10.51 | [Chart](https://www.tradingview.com/chart/?symbol=CLB) | Core Laboratories Inc. | CLB |
+| 7 | 99 | $18.84 | [Chart](https://www.tradingview.com/chart/?symbol=GAP) | The Gap, Inc. | GAP |
+| 9 | 99 | $31.59 | [Chart](https://www.tradingview.com/chart/?symbol=GLBE) | Global-E Online Ltd. Ordinary Shares | GLBE |
+| 9 | 99 | $22.50 | [Chart](https://www.tradingview.com/chart/?symbol=ERY) | Direxion Daily Energy Bear 2X Shares | ERY |
+| 11 | 99 | $10.45 | [Chart](https://www.tradingview.com/chart/?symbol=CLB) | Core Laboratories Inc. | CLB |
 | 12 | 99 | $52.61 | [Chart](https://www.tradingview.com/chart/?symbol=AMWD) | American Woodmark Corp | AMWD |
 | 14 | 99 | $69.86 | [Chart](https://www.tradingview.com/chart/?symbol=NHI) | National Health Investors | NHI |
-| 7 | 98 | $20.75 | [Chart](https://www.tradingview.com/chart/?symbol=BLFS) | BioLife Solutions Inc. | BLFS |
-| 7 | 98 | $52.12 | [Chart](https://www.tradingview.com/chart/?symbol=TSN) | Tyson Foods, Inc. | TSN |
-| 8 | 98 | $19.05 | [Chart](https://www.tradingview.com/chart/?symbol=GAP) | The Gap, Inc. | GAP |
-| 9 | 98 | $10.15 | [Chart](https://www.tradingview.com/chart/?symbol=SD) | SandRidge Energy, Inc. | SD |
-| 10 | 97 | $35.53 | [Chart](https://www.tradingview.com/chart/?symbol=LZB) | La-Z-Boy Incorporated | LZB |
-| 16 | 97 | $128.41 | [Chart](https://www.tradingview.com/chart/?symbol=ICUI) | ICU Medical Inc | ICUI |
-| 8 | 95 | $17.54 | [Chart](https://www.tradingview.com/chart/?symbol=LOVE) | The Lovesac Company Common Stock | LOVE |
-| 13 | 93 | $10.22 | [Chart](https://www.tradingview.com/chart/?symbol=ACIC) | American Coastal Insurance Corporation Common Stock | ACIC |
-| 14 | 93 | $13.02 | [Chart](https://www.tradingview.com/chart/?symbol=GOOD) | Gladstone Commercial Corporation - REIT | GOOD |
-| 15 | 93 | $19.51 | [Chart](https://www.tradingview.com/chart/?symbol=AVBP) | ArriVent BioPharma, Inc. Common Stock | AVBP |
-| 17 | 92 | $15.98 | [Chart](https://www.tradingview.com/chart/?symbol=MLNK) | MeridianLink, Inc. | MLNK |
-| 11 | 91 | $39.53 | [Chart](https://www.tradingview.com/chart/?symbol=SH) | ProShares Short S&P500 | SH |
-| 21 | 91 | $37.21 | [Chart](https://www.tradingview.com/chart/?symbol=PBA) | PEMBINA PIPELINE CORPORATION | PBA |
-| 15 | 90 | $12.19 | [Chart](https://www.tradingview.com/chart/?symbol=WSR) | Whitestone REIT | WSR |
-| 17 | 90 | $21.94 | [Chart](https://www.tradingview.com/chart/?symbol=CURB) | Curbline Properties Corp. | CURB |
-| 13 | 89 | $10.44 | [Chart](https://www.tradingview.com/chart/?symbol=SONO) | Sonos, Inc. Common Stock | SONO |
-| 20 | 88 | $31.42 | [Chart](https://www.tradingview.com/chart/?symbol=DAR) | DARLING INGREDIENTS INC. | DAR |
-| 22 | 88 | $18.68 | [Chart](https://www.tradingview.com/chart/?symbol=VSCO) | Victorias Secret & Co. | VSCO |
-| 24 | 88 | $10.41 | [Chart](https://www.tradingview.com/chart/?symbol=LOCO) | El Pollo Loco Holdings, Inc. | LOCO |
-| 22 | 87 | $12.52 | [Chart](https://www.tradingview.com/chart/?symbol=ZYME) | Zymeworks Inc. | ZYME |
-| 15 | 86 | $42.53 | [Chart](https://www.tradingview.com/chart/?symbol=BILL) | BILL Holdings, Inc. | BILL |
-| 17 | 86 | $97.70 | [Chart](https://www.tradingview.com/chart/?symbol=AFL) | Aflac Inc. | AFL |
-| 22 | 86 | $15.65 | [Chart](https://www.tradingview.com/chart/?symbol=HQH) | abrdn Healthcare Investors | HQH |
-| 23 | 85 | $87.34 | [Chart](https://www.tradingview.com/chart/?symbol=BCO) | The Brink's Company | BCO |
-| 23 | 85 | $10.02 | [Chart](https://www.tradingview.com/chart/?symbol=NMZ) | Nuveen Municipal High Income Opportunity Fund | NMZ |
-| 24 | 85 | $11.76 | [Chart](https://www.tradingview.com/chart/?symbol=NVG) | Nuveen AMT-Free Municipal Credit Income Fund | NVG |
-| 30 | 85 | $16.61 | [Chart](https://www.tradingview.com/chart/?symbol=SVOL) | Simplify Volatility Premium ETF | SVOL |
-| 17 | 84 | $29.72 | [Chart](https://www.tradingview.com/chart/?symbol=KVYO) | Klaviyo, Inc. | KVYO |
-| 26 | 84 | $138.98 | [Chart](https://www.tradingview.com/chart/?symbol=DVA) | DaVita Inc. | DVA |
-| 22 | 82 | $10.17 | [Chart](https://www.tradingview.com/chart/?symbol=BRKL) | Brookline Bancorp Inc | BRKL |
-| 26 | 82 | $10.38 | [Chart](https://www.tradingview.com/chart/?symbol=MYI) | BLACKROCK MUNIYIELD QUALITY FUND III, INC. | MYI |
-| 25 | 81 | $12.64 | [Chart](https://www.tradingview.com/chart/?symbol=PCN) | PIMCO Corporate & Income Strategy Fund | PCN |
-| 23 | 80 | $187.17 | [Chart](https://www.tradingview.com/chart/?symbol=AIZ) | Assurant, Inc. | AIZ |
-| 27 | 80 | $292.25 | [Chart](https://www.tradingview.com/chart/?symbol=UTHR) | United Therapeutics Corp | UTHR |
-| 23 | 79 | $73.83 | [Chart](https://www.tradingview.com/chart/?symbol=MET) | MetLife, Inc. | MET |
-| 28 | 79 | $12.28 | [Chart](https://www.tradingview.com/chart/?symbol=RQI) | COHEN & STEERS QUALITY INCOME REALTY FUND, INC. COMMON SHARES | RQI |
-| 30 | 79 | $59.90 | [Chart](https://www.tradingview.com/chart/?symbol=FTSM) | First Trust Enhanced Short Maturity ETF | FTSM |
-| 24 | 78 | $79.52 | [Chart](https://www.tradingview.com/chart/?symbol=OKE) | Oneok, Inc. | OKE |
-| 26 | 78 | $44.88 | [Chart](https://www.tradingview.com/chart/?symbol=EPI) | WisdomTree India Earnings Fund ETF | EPI |
-| 26 | 78 | $154.41 | [Chart](https://www.tradingview.com/chart/?symbol=NICE) | NICE Ltd | NICE |
-| 26 | 78 | $12.22 | [Chart](https://www.tradingview.com/chart/?symbol=NU) | Nu Holdings Ltd. | NU |
-| 29 | 78 | $23.29 | [Chart](https://www.tradingview.com/chart/?symbol=IBTF) | iShares iBonds Dec 2025 Term Treasury ETF | IBTF |
+| 14 | 99 | $126.40 | [Chart](https://www.tradingview.com/chart/?symbol=ICUI) | ICU Medical Inc | ICUI |
+| 6 | 98 | $20.64 | [Chart](https://www.tradingview.com/chart/?symbol=BLFS) | BioLife Solutions Inc. | BLFS |
+| 9 | 98 | $10.12 | [Chart](https://www.tradingview.com/chart/?symbol=SD) | SandRidge Energy, Inc. | SD |
+| 9 | 98 | $10.18 | [Chart](https://www.tradingview.com/chart/?symbol=IMXI) | International Money Express, Inc. | IMXI |
+| 10 | 98 | $18.76 | [Chart](https://www.tradingview.com/chart/?symbol=AVBP) | ArriVent BioPharma, Inc. Common Stock | AVBP |
+| 10 | 97 | $35.37 | [Chart](https://www.tradingview.com/chart/?symbol=LZB) | La-Z-Boy Incorporated | LZB |
+| 8 | 96 | $52.11 | [Chart](https://www.tradingview.com/chart/?symbol=TSN) | Tyson Foods, Inc. | TSN |
+| 13 | 93 | $10.14 | [Chart](https://www.tradingview.com/chart/?symbol=ACIC) | American Coastal Insurance Corporation Common Stock | ACIC |
+| 15 | 91 | $13.02 | [Chart](https://www.tradingview.com/chart/?symbol=GOOD) | Gladstone Commercial Corporation - REIT | GOOD |
+| 18 | 91 | $15.98 | [Chart](https://www.tradingview.com/chart/?symbol=MLNK) | MeridianLink, Inc. | MLNK |
+| 12 | 90 | $39.75 | [Chart](https://www.tradingview.com/chart/?symbol=SH) | ProShares Short S&P500 | SH |
+| 20 | 90 | $10.96 | [Chart](https://www.tradingview.com/chart/?symbol=MBC) | MasterBrand, Inc. | MBC |
+| 21 | 90 | $37.03 | [Chart](https://www.tradingview.com/chart/?symbol=PBA) | PEMBINA PIPELINE CORPORATION | PBA |
+| 16 | 89 | $12.19 | [Chart](https://www.tradingview.com/chart/?symbol=WSR) | Whitestone REIT | WSR |
+| 13 | 88 | $10.38 | [Chart](https://www.tradingview.com/chart/?symbol=SONO) | Sonos, Inc. Common Stock | SONO |
+| 18 | 88 | $21.89 | [Chart](https://www.tradingview.com/chart/?symbol=CURB) | Curbline Properties Corp. | CURB |
+| 20 | 88 | $31.30 | [Chart](https://www.tradingview.com/chart/?symbol=DAR) | DARLING INGREDIENTS INC. | DAR |
+| 22 | 87 | $18.55 | [Chart](https://www.tradingview.com/chart/?symbol=VSCO) | Victorias Secret & Co. | VSCO |
+| 22 | 87 | $13.09 | [Chart](https://www.tradingview.com/chart/?symbol=CCRN) | Cross Country Healthcare Inc | CCRN |
+| 25 | 87 | $10.42 | [Chart](https://www.tradingview.com/chart/?symbol=LOCO) | El Pollo Loco Holdings, Inc. | LOCO |
+| 17 | 86 | $97.49 | [Chart](https://www.tradingview.com/chart/?symbol=AFL) | Aflac Inc. | AFL |
+| 29 | 86 | $16.56 | [Chart](https://www.tradingview.com/chart/?symbol=SVOL) | Simplify Volatility Premium ETF | SVOL |
+| 23 | 85 | $15.65 | [Chart](https://www.tradingview.com/chart/?symbol=HQH) | abrdn Healthcare Investors | HQH |
+| 24 | 85 | $12.58 | [Chart](https://www.tradingview.com/chart/?symbol=ZYME) | Zymeworks Inc. | ZYME |
+| 25 | 85 | $137.88 | [Chart](https://www.tradingview.com/chart/?symbol=DVA) | DaVita Inc. | DVA |
+| 16 | 84 | $29.53 | [Chart](https://www.tradingview.com/chart/?symbol=KVYO) | Klaviyo, Inc. | KVYO |
+| 24 | 84 | $87.34 | [Chart](https://www.tradingview.com/chart/?symbol=BCO) | The Brink's Company | BCO |
+| 24 | 84 | $10.03 | [Chart](https://www.tradingview.com/chart/?symbol=NMZ) | Nuveen Municipal High Income Opportunity Fund | NMZ |
+| 25 | 83 | $11.78 | [Chart](https://www.tradingview.com/chart/?symbol=NVG) | Nuveen AMT-Free Municipal Credit Income Fund | NVG |
+| 22 | 81 | $10.16 | [Chart](https://www.tradingview.com/chart/?symbol=BRKL) | Brookline Bancorp Inc | BRKL |
+| 27 | 81 | $10.37 | [Chart](https://www.tradingview.com/chart/?symbol=MYI) | BLACKROCK MUNIYIELD QUALITY FUND III, INC. | MYI |
+| 23 | 80 | $186.32 | [Chart](https://www.tradingview.com/chart/?symbol=AIZ) | Assurant, Inc. | AIZ |
+| 27 | 80 | $291.34 | [Chart](https://www.tradingview.com/chart/?symbol=UTHR) | United Therapeutics Corp | UTHR |
+| 22 | 79 | $73.50 | [Chart](https://www.tradingview.com/chart/?symbol=MET) | MetLife, Inc. | MET |
+| 24 | 79 | $152.50 | [Chart](https://www.tradingview.com/chart/?symbol=NICE) | NICE Ltd | NICE |
+| 25 | 79 | $12.12 | [Chart](https://www.tradingview.com/chart/?symbol=NU) | Nu Holdings Ltd. | NU |
+| 28 | 78 | $12.26 | [Chart](https://www.tradingview.com/chart/?symbol=RQI) | COHEN & STEERS QUALITY INCOME REALTY FUND, INC. COMMON SHARES | RQI |
+| 27 | 77 | $44.74 | [Chart](https://www.tradingview.com/chart/?symbol=EPI) | WisdomTree India Earnings Fund ETF | EPI |
+| 30 | 77 | $23.29 | [Chart](https://www.tradingview.com/chart/?symbol=IBTF) | iShares iBonds Dec 2025 Term Treasury ETF | IBTF |
 | 31 | 77 | $100.29 | [Chart](https://www.tradingview.com/chart/?symbol=MINT) | PIMCO Enhanced Short Maturity Active Exchange-Traded Fund | MINT |
-| 24 | 76 | $86.38 | [Chart](https://www.tradingview.com/chart/?symbol=BIDU) | Baidu, Inc. | BIDU |
-| 26 | 76 | $56.55 | [Chart](https://www.tradingview.com/chart/?symbol=O) | Realty Income Corporation | O |
-| 31 | 75 | $30.73 | [Chart](https://www.tradingview.com/chart/?symbol=FLRN) | SPDR Bloomberg Investment Grade Floating Rate ETF | FLRN |
-| 32 | 75 | $23.13 | [Chart](https://www.tradingview.com/chart/?symbol=IBHF) | iShares iBonds 2026 Term High Yield and Income ETF | IBHF |
-| 28 | 74 | $22.85 | [Chart](https://www.tradingview.com/chart/?symbol=IBTG) | iShares iBonds Dec 2026 Term Treasury ETF | IBTG |
-| 28 | 72 | $25.33 | [Chart](https://www.tradingview.com/chart/?symbol=WKC) | World Kinect Corporation | WKC |
-| 31 | 72 | $33.89 | [Chart](https://www.tradingview.com/chart/?symbol=FFIN) | First Financial Bankshares Inc | FFIN |
-| 29 | 71 | $99.86 | [Chart](https://www.tradingview.com/chart/?symbol=GBIL) | Goldman Sachs Access Treasury 0-1 Year ETF | GBIL |
-| 38 | 71 | $78.02 | [Chart](https://www.tradingview.com/chart/?symbol=GPN) | Global Payments, Inc. | GPN |
-| 34 | 70 | $47.68 | [Chart](https://www.tradingview.com/chart/?symbol=SPHD) | Invesco S&P 500 High Dividend Low Volatility ETF | SPHD |
-| 34 | 69 | $45.92 | [Chart](https://www.tradingview.com/chart/?symbol=FTSL) | First Trust Senior Loan Fund ETF | FTSL |
-| 36 | 69 | $78.80 | [Chart](https://www.tradingview.com/chart/?symbol=FIS) | Fidelity National Information Services, Inc. | FIS |
-| 37 | 67 | $42.52 | [Chart](https://www.tradingview.com/chart/?symbol=SPYD) | SPDR Portfolio S&P 500 High Dividend ETF | SPYD |
-| 38 | 67 | $54.78 | [Chart](https://www.tradingview.com/chart/?symbol=ALRM) | Alarm.com Holdings, Inc. | ALRM |
-| 39 | 67 | $20.43 | [Chart](https://www.tradingview.com/chart/?symbol=PEY) | Invesco High Yield Equity Dividend Achievers ETF | PEY |
-| 37 | 64 | $14.07 | [Chart](https://www.tradingview.com/chart/?symbol=OBDC) | Blue Owl Capital Corporation | OBDC |
-| 37 | 64 | $23.73 | [Chart](https://www.tradingview.com/chart/?symbol=FFBC) | First Financial Bancorp | FFBC |
+| 31 | 77 | $59.89 | [Chart](https://www.tradingview.com/chart/?symbol=FTSM) | First Trust Enhanced Short Maturity ETF | FTSM |
+| 25 | 75 | $86.07 | [Chart](https://www.tradingview.com/chart/?symbol=BIDU) | Baidu, Inc. | BIDU |
+| 32 | 75 | $23.11 | [Chart](https://www.tradingview.com/chart/?symbol=IBHF) | iShares iBonds 2026 Term High Yield and Income ETF | IBHF |
+| 36 | 75 | $20.89 | [Chart](https://www.tradingview.com/chart/?symbol=BKLN) | Invesco Senior Loan ETF | BKLN |
+| 32 | 74 | $30.74 | [Chart](https://www.tradingview.com/chart/?symbol=FLRN) | SPDR Bloomberg Investment Grade Floating Rate ETF | FLRN |
+| 29 | 73 | $22.85 | [Chart](https://www.tradingview.com/chart/?symbol=IBTG) | iShares iBonds Dec 2026 Term Treasury ETF | IBTG |
+| 29 | 71 | $25.35 | [Chart](https://www.tradingview.com/chart/?symbol=WKC) | World Kinect Corporation | WKC |
+| 32 | 71 | $33.87 | [Chart](https://www.tradingview.com/chart/?symbol=FFIN) | First Financial Bankshares Inc | FFIN |
+| 38 | 71 | $77.72 | [Chart](https://www.tradingview.com/chart/?symbol=GPN) | Global Payments, Inc. | GPN |
+| 35 | 70 | $78.39 | [Chart](https://www.tradingview.com/chart/?symbol=FIS) | Fidelity National Information Services, Inc. | FIS |
+| 35 | 70 | $45.92 | [Chart](https://www.tradingview.com/chart/?symbol=FTSL) | First Trust Senior Loan Fund ETF | FTSL |
+| 34 | 69 | $47.56 | [Chart](https://www.tradingview.com/chart/?symbol=SPHD) | Invesco S&P 500 High Dividend Low Volatility ETF | SPHD |
+| 37 | 68 | $54.39 | [Chart](https://www.tradingview.com/chart/?symbol=ALRM) | Alarm.com Holdings, Inc. | ALRM |
+| 37 | 66 | $42.39 | [Chart](https://www.tradingview.com/chart/?symbol=SPYD) | SPDR Portfolio S&P 500 High Dividend ETF | SPYD |
+| 39 | 66 | $36.55 | [Chart](https://www.tradingview.com/chart/?symbol=HYLB) | Xtrackers USD High Yield Corporate Bond ETF | HYLB |
+| 39 | 66 | $20.36 | [Chart](https://www.tradingview.com/chart/?symbol=PEY) | Invesco High Yield Equity Dividend Achievers ETF | PEY |
+| 37 | 65 | $83.01 | [Chart](https://www.tradingview.com/chart/?symbol=ACA) | Arcosa, Inc. Common Stock | ACA |
+| 38 | 63 | $161.29 | [Chart](https://www.tradingview.com/chart/?symbol=SPG) | Simon Property Group, Inc. | SPG |
+| 39 | 63 | $23.55 | [Chart](https://www.tradingview.com/chart/?symbol=SPHY) | SPDR Portfolio High Yield Bond ETF | SPHY |
 
 ## **Methodology**
 
